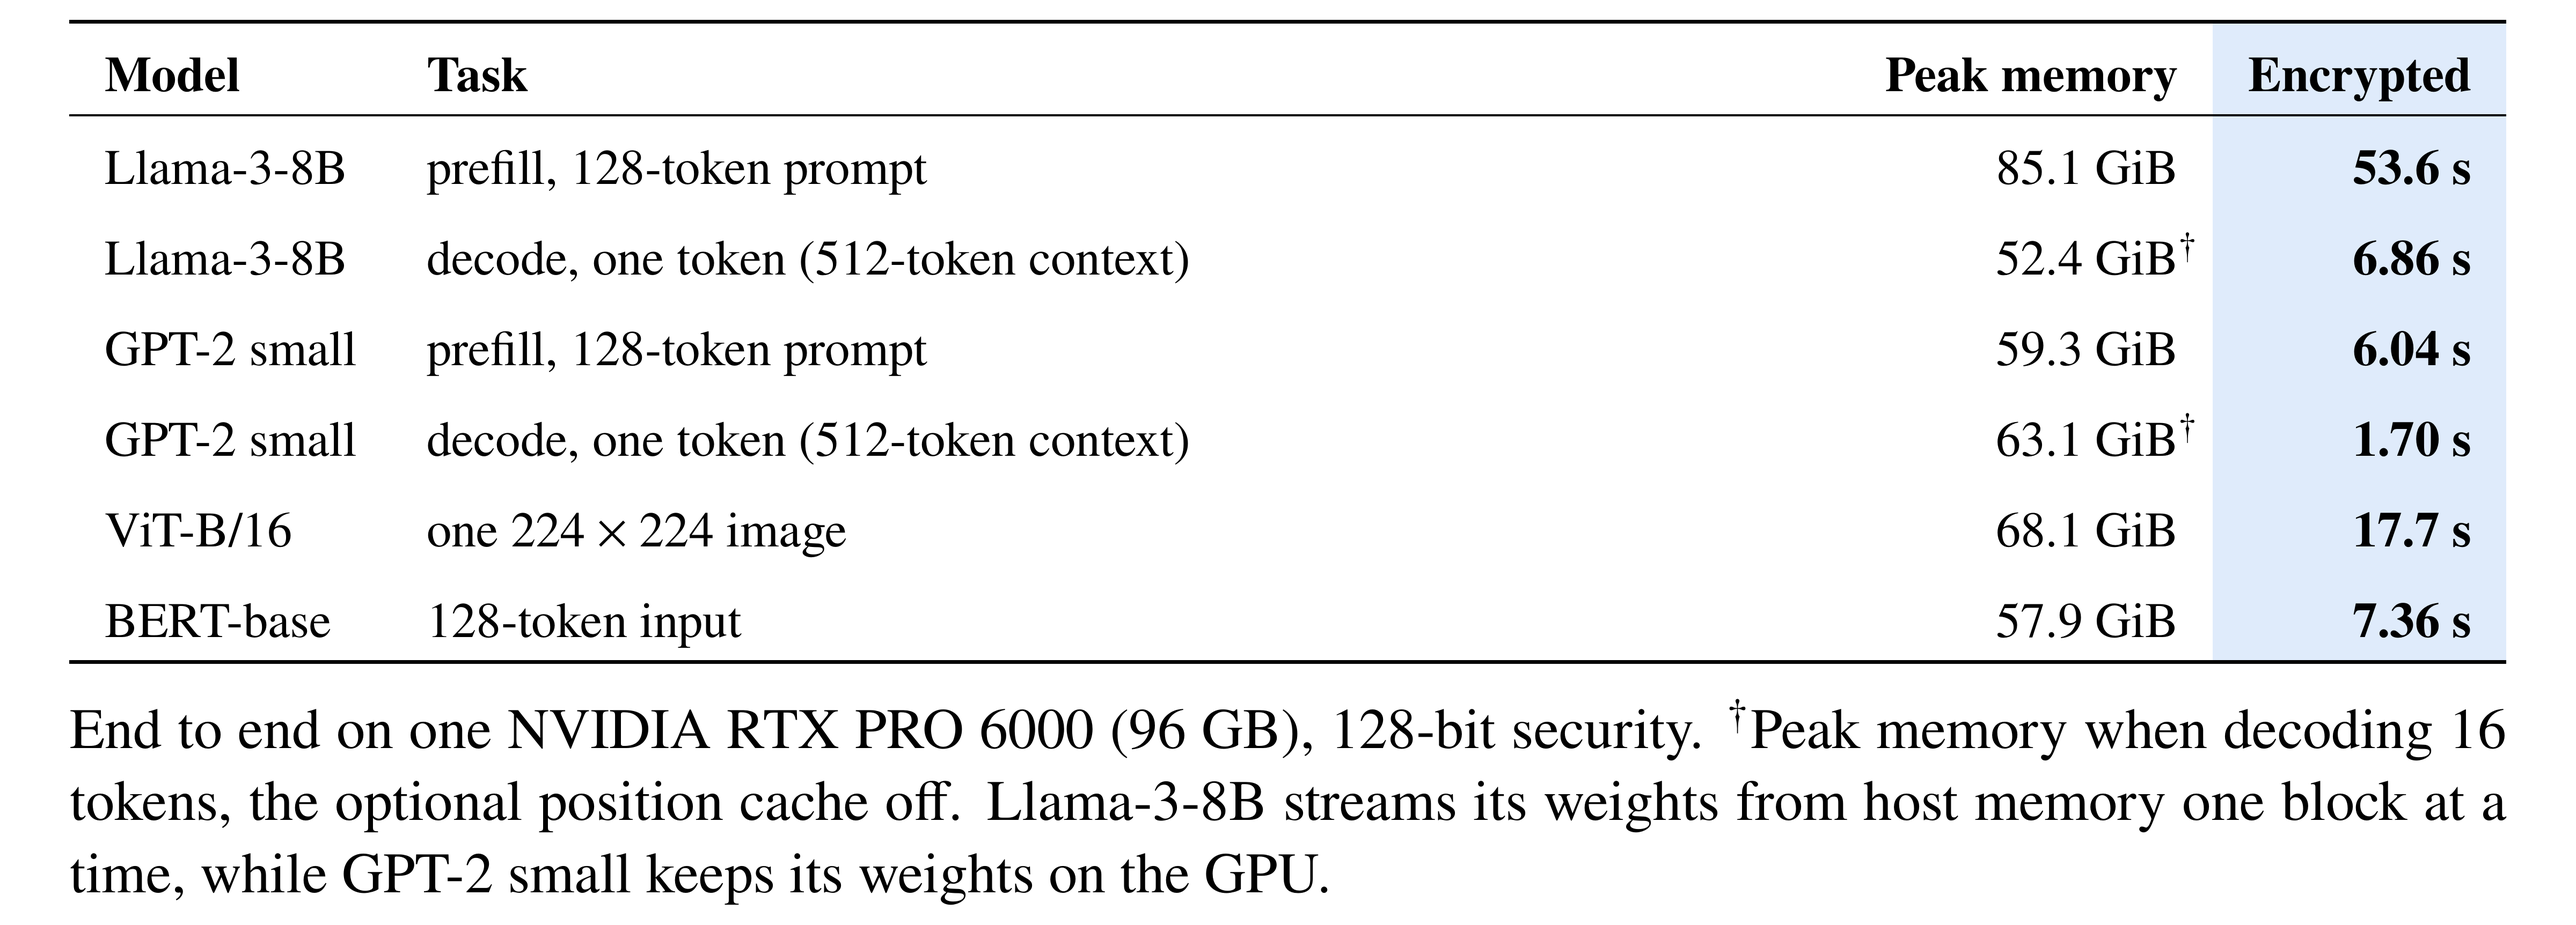
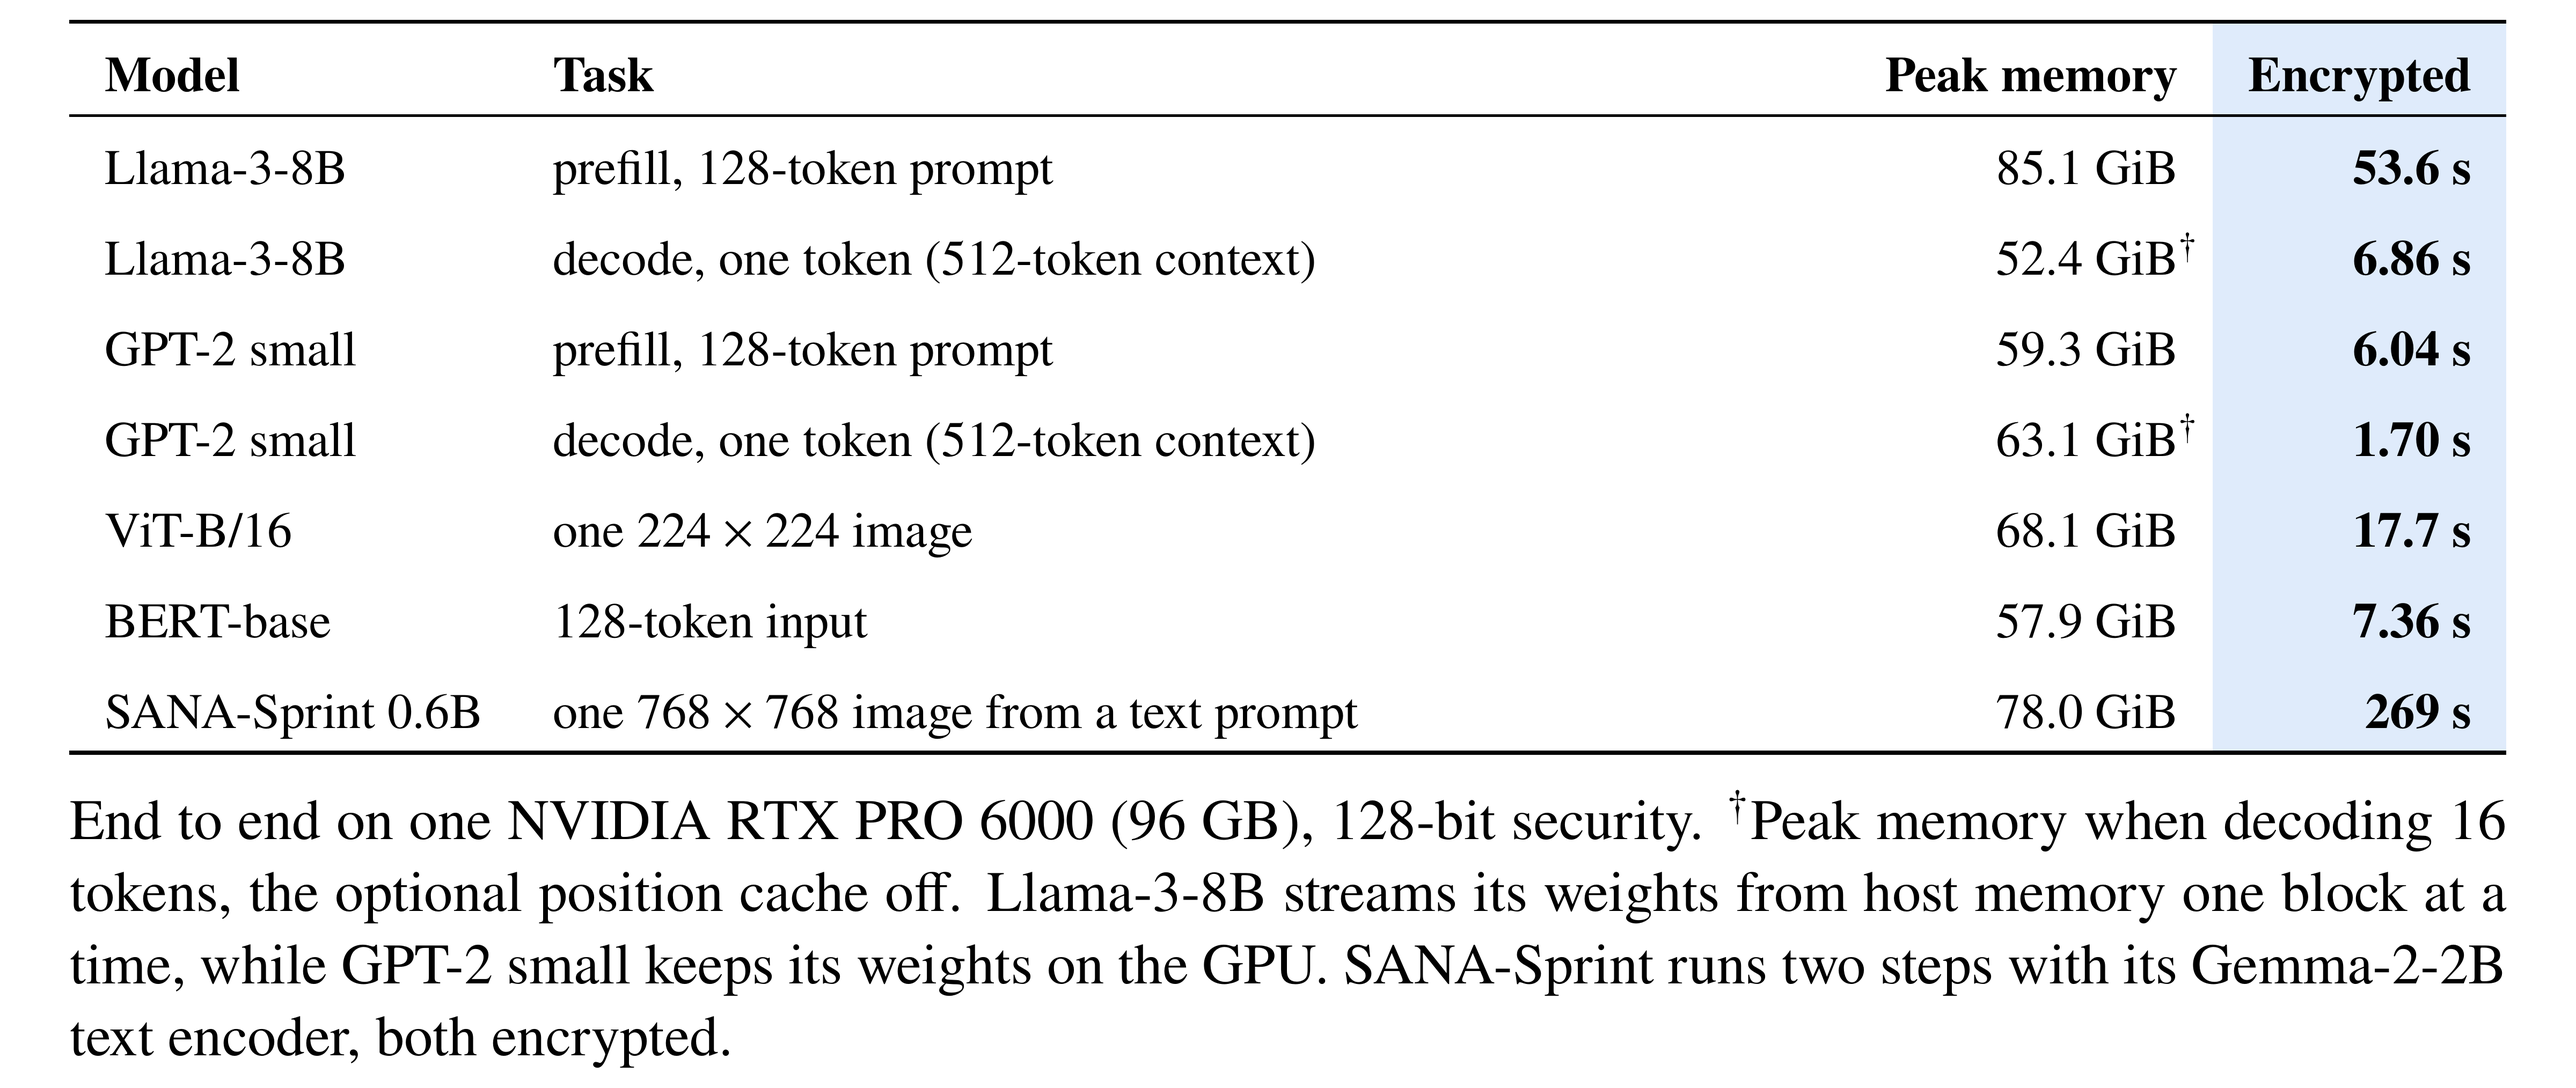
README: SANA-Sprint in the overview table

diff --git a/assets/paper-tables.tex b/assets/paper-tables.tex
@@ -20,6 +20,9 @@
 % one isolated GPU; decode at a 512-token context, positions 500-511 after a 500-position plaintext prefix)
 \newcommand{\llamapf}{53.6}\newcommand{\llamadec}{6.86}\newcommand{\gptpf}{6.04}\newcommand{\gptdec}{1.70}
 \newcommand{\vitimg}{17.7}\newcommand{\bertin}{7.36}
+% SANA-Sprint text to image (sana-t2i branch check, 2026-11-13, GPU 4 alone: forwards 2 and 3, 269.06 and 269.13 s, after
+% a 333 s first forward; lowest free 17.01 GiB)
+\newcommand{\sanaimg}{269}\newcommand{\sanamem}{78.0}
 % peak GPU memory, GiB: total (94.97) minus the lowest free of the run (the prefills replay CUDA graphs, captured in
 % the first forward after setup); the decode rows at a short context (the repro scripts' 16 tokens), without the
 % optional position cache (PC_PT_CACHE=0), Llama's the GPU's peak used memory over the run (its runner reports no free
@@ -52,10 +55,12 @@ GPT-2 small & prefill, 128-token prompt & \gptpfmem\ GiB & \textbf{\gptpf\ s} \\
 GPT-2 small & decode, one token (512-token context) & \gptdecmem\ GiB\nt{\dagger} & \textbf{\gptdec\ s} \\
 ViT-B/16 & one $224\times224$ image & \vitmem\ GiB & \textbf{\vitimg\ s} \\
 BERT-base & 128-token input & \bertmem\ GiB & \textbf{\bertin\ s} \\
+SANA-Sprint 0.6B & one $768\times768$ image from a text prompt & \sanamem\ GiB & \textbf{\sanaimg\ s} \\
 \bottomrule
 \end{tabularx}
 \tcap{End to end on one NVIDIA RTX PRO 6000 (96 GB), 128-bit security. $^\dagger$Peak memory when decoding 16 tokens, the optional position cache off.
-Llama-3-8B streams its weights from host memory one block at a time, while GPT-2 small keeps its weights on the GPU.}
+Llama-3-8B streams its weights from host memory one block at a time, while GPT-2 small keeps its weights on the GPU.
+SANA-Sprint runs two steps with its Gemma-2-2B text encoder, both encrypted.}
 \end{tbl}
 
 % Unlike the paper (two Llama tables, prefill and decode), the README shows one, in the GPT-2 table's layout.

diff --git a/README.md b/README.md
@@ -44,17 +44,17 @@ our 32-bit GPU port of [FIDESlib](https://github.com/CAPS-UMU/FIDESlib)).
     <picture>
       <source media="(prefers-color-scheme: dark)" srcset="assets/paper-tables-overview-dark.png">
       <source media="(prefers-color-scheme: light)" srcset="assets/paper-tables-overview-light.png">
-      <img src="assets/paper-tables-overview-light.png" alt="Perseus, encrypted, end to end on one RTX PRO 6000 with 128-bit security, and the peak GPU memory of each run (Llama-3-8B streams its weights from host memory, GPT-2 small keeps its weights on the GPU). Llama-3-8B prefill of a 128-token prompt 53.6 s (85.1 GiB), decode of one token at a 512-token context 6.86 s (52.4 GiB when decoding 16 tokens). GPT-2 small prefill 6.04 s (59.3 GiB), decode 1.70 s per token at a 512-token context (63.1 GiB when decoding 16 tokens). ViT-B/16 17.7 s per image (68.1 GiB). BERT-base 7.36 s for 128 tokens (57.9 GiB)." width="707">
+      <img src="assets/paper-tables-overview-light.png" alt="Perseus, encrypted, end to end on one RTX PRO 6000 with 128-bit security, and the peak GPU memory of each run (Llama-3-8B streams its weights from host memory, GPT-2 small keeps its weights on the GPU). Llama-3-8B prefill of a 128-token prompt 53.6 s (85.1 GiB), decode of one token at a 512-token context 6.86 s (52.4 GiB when decoding 16 tokens). GPT-2 small prefill 6.04 s (59.3 GiB), decode 1.70 s per token at a 512-token context (63.1 GiB when decoding 16 tokens). ViT-B/16 17.7 s per image (68.1 GiB). BERT-base 7.36 s for 128 tokens (57.9 GiB). SANA-Sprint 0.6B, with its Gemma-2-2B text encoder, 269 s for one 768 × 768 image from a text prompt (78.0 GiB)." width="707">
     </picture>
   </a>
 </p>
 
 ## What's inside
 
-- **Python models, compiled.** GPT-2, Llama-3, BERT and ViT are Python programs on `perseus.impl`
-  (`python/perseus/examples/`), with readable packings, nonlinearities and layers. Each block is recorded
-  once on a CPU twin, compiled with its plan into a program, and replayed by the runtime with no Python on
-  the critical path, from one device arena sized at setup.
+- **Python models, compiled.** GPT-2, Llama-3, BERT, ViT and SANA-Sprint (with its Gemma-2 text encoder)
+  are Python programs on `perseus.impl` (`python/perseus/examples/`), with readable packings, nonlinearities
+  and layers. Each block is recorded once on a CPU twin, compiled with its plan into a program, and replayed
+  by the runtime with no Python on the critical path, from one device arena sized at setup.
 - **In-kernel key regeneration.** Half of every key-switching key is regenerated on the GPU from a
   ChaCha12 seed instead of being stored.
 - **Complex Cachemir packing.** Two real vectors per ciphertext, in the complex slots of CKKS.
